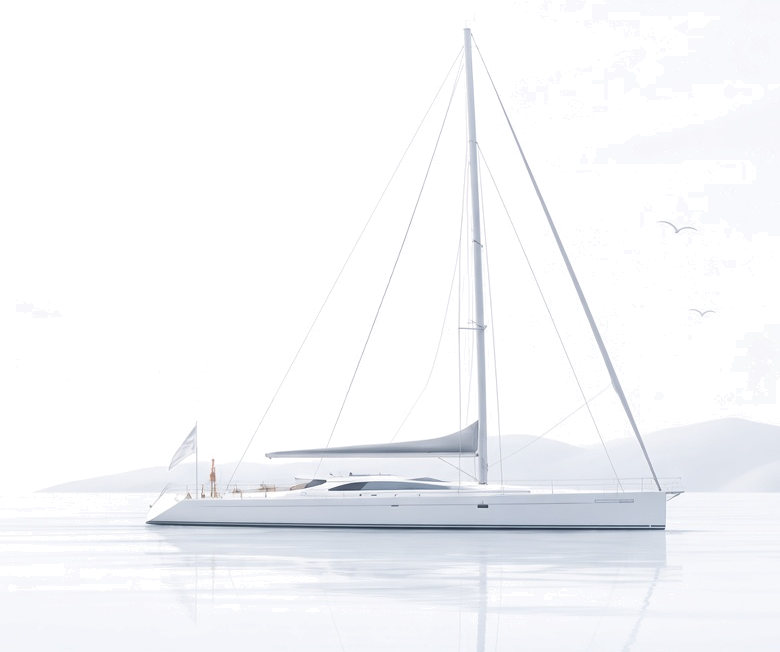
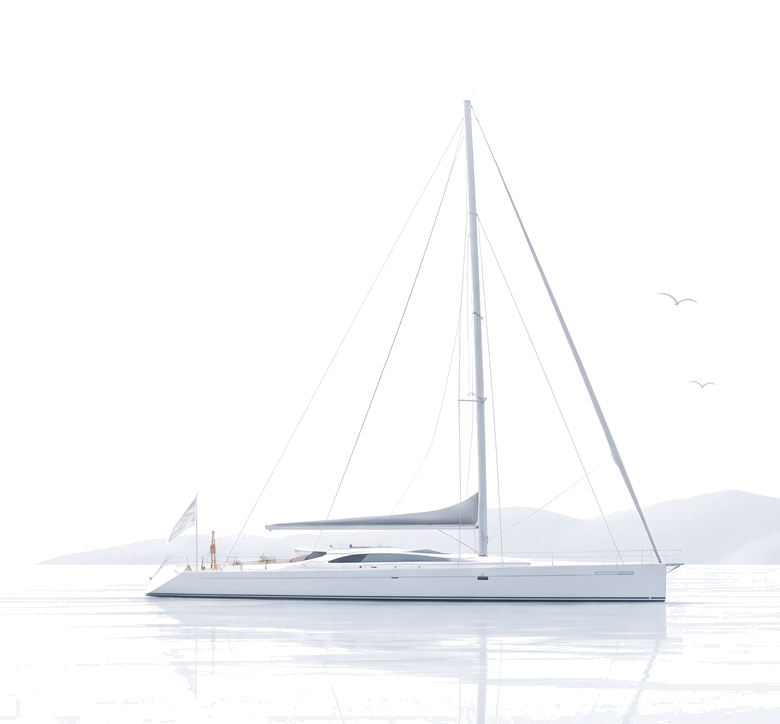
Keep the empty-state yacht fully inside the crew card.
The illustration now sits in a frame that matches the card, with space above the mast so the top is no longer clipped.

diff --git a/src/index.css b/src/index.css
@@ -6786,17 +6786,20 @@ html[data-theme='dark'] .home-card { background: var(--paper); }
 
 .home-caught-boat {
   position: absolute;
+  top: 0.15rem;
   right: 0;
-  top: 0.4rem;
-  bottom: 0;
-  height: calc(100% - 0.4rem);
-  width: auto;
-  max-width: 72%;
-  object-fit: contain;
-  object-position: right bottom;
+  bottom: 0.2rem;
+  width: min(54%, 26rem);
   pointer-events: none;
   user-select: none;
-  mask-image: linear-gradient(90deg, transparent, #000 8%);
+}
+
+.home-caught-boat img {
+  display: block;
+  width: 100%;
+  height: 100%;
+  object-fit: contain;
+  object-position: right center;
 }
 
 .home-caught-copy {

diff --git a/src/pages/Bridge.tsx b/src/pages/Bridge.tsx
@@ -125,7 +125,9 @@ export function Bridge() {
                   </span>
                 </div>
               </div>
-              <img className="home-caught-boat" src="/yacht/empty-yacht.png" alt="" />
+              <div className="home-caught-boat" aria-hidden="true">
+                <img src="/yacht/empty-yacht.png" alt="" />
+              </div>
             </div>
           ) : (
             <div className="home-table">
